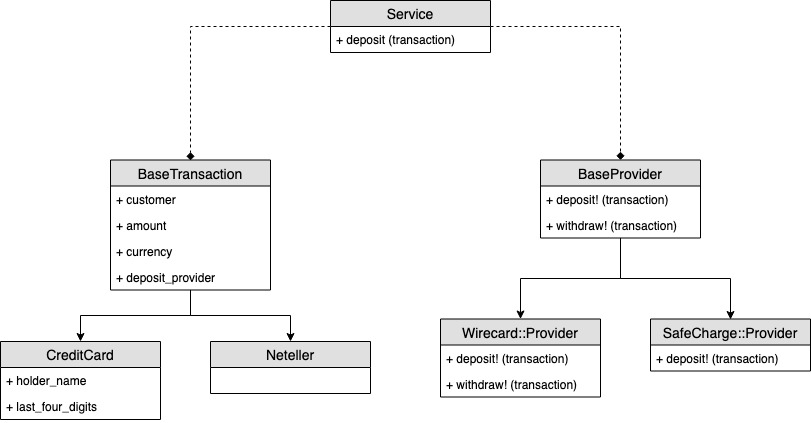
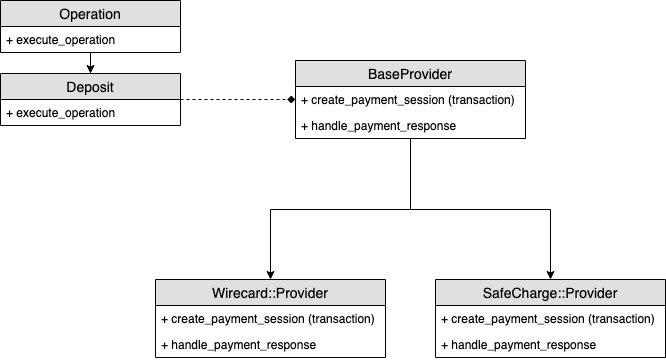
Update payments docs

diff --git a/docs/payments/gateway.md b/docs/payments/gateway.md
@@ -2,14 +2,20 @@
 Initial architecture for gateway. Usage example:
 
 ```ruby
-transaction = Payments::Transaction.build(:credit_card)
-transaction.customer = customer
-transaction.amount = 1000
-transaction.currency = currency
-transaction.bonus_code = 'TEST_BONUS'
+# Generating payment page url
+transaction = Payments::Transaction.new(
+  method: :credit_card,
+  customer: customer,
+  amount: 1000,
+  currency: currency,
+  bonus_code: 'TEST_BONUS_CODE'
+)
 
-payments_service = Payments::Service.new
-payments_service.deposit(transaction)
+Payments::Deposit.call(transaction)
+
+
+# Handling response on return
+Payments::Wirecard.new.handle_payment_response(params) 
 
 ```
 
